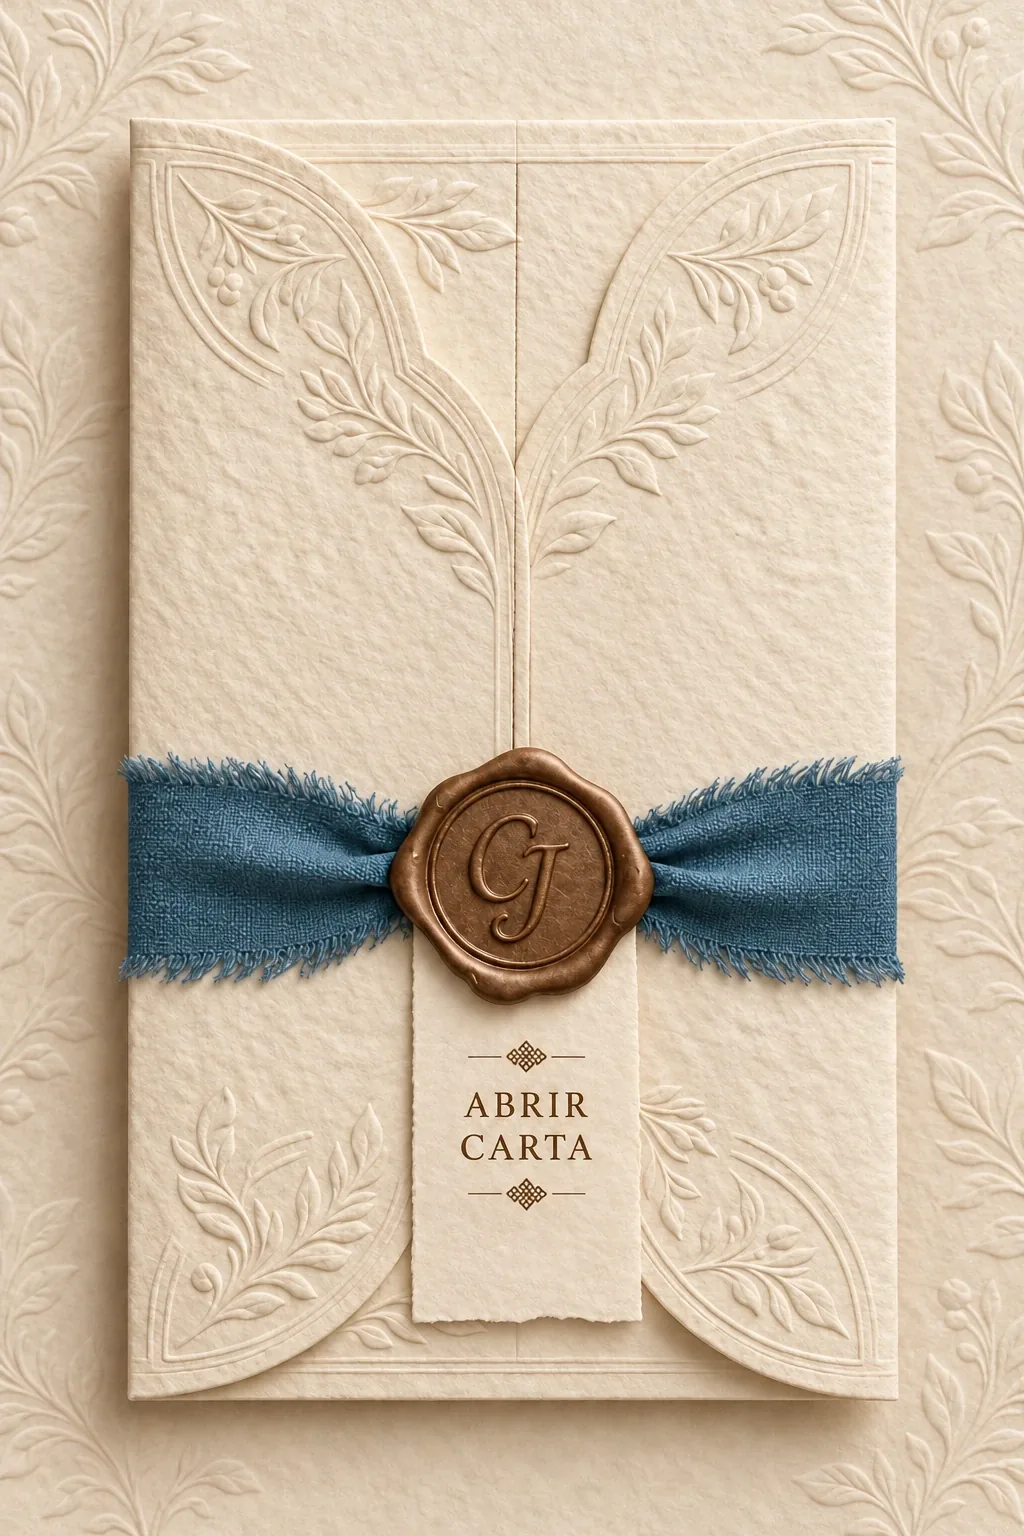
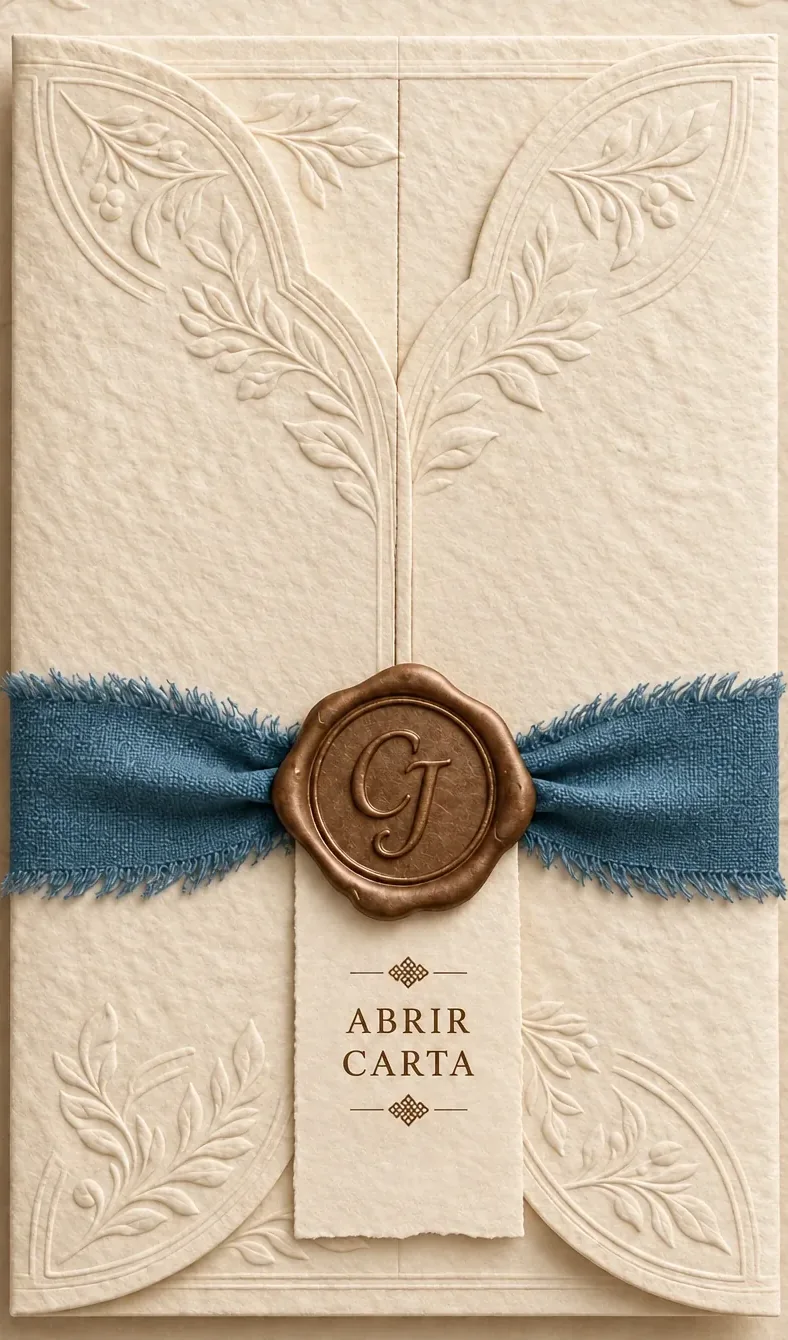
Entrada: solo la tarjeta sobre el fondo (cuadros recortados, bordes esfumados)
Claude-Session: https://claude.ai/code/session_01CPC8ckxxTpQ5o2jahJbfrt

diff --git a/index.html b/index.html
@@ -17,18 +17,19 @@
 
   /* Escena con la proporción de los cuadros (1024x1536) */
   .stage{position:fixed;inset:0;display:flex;flex-direction:column;align-items:center;justify-content:center;padding:2vh 0}
-  .scene{--h:min(100svh,150vw);position:relative;height:var(--h);aspect-ratio:2/3;border:0;padding:0;background:none;color:inherit;font:inherit;cursor:pointer;
-    -webkit-mask-image:radial-gradient(ellipse 72% 70% at 50% 50%,#000 72%,transparent 100%);mask-image:radial-gradient(ellipse 72% 70% at 50% 50%,#000 72%,transparent 100%);
+  .scene{--h:min(90svh,calc(92vw * 1340 / 788));position:relative;height:var(--h);aspect-ratio:788/1340;
+    -webkit-mask-image:linear-gradient(90deg,transparent,#000 2.5%,#000 97.5%,transparent),linear-gradient(transparent,#000 1.5%,#000 98.5%,transparent);-webkit-mask-composite:source-in;mask-image:linear-gradient(90deg,transparent,#000 2.5%,#000 97.5%,transparent),linear-gradient(transparent,#000 1.5%,#000 98.5%,transparent);mask-composite:intersect;border:0;padding:0;background:none;color:inherit;font:inherit;cursor:pointer;
+    
     animation:llega 1.4s .15s cubic-bezier(.22,.61,.36,1) both}
-  .scene:focus-visible{outline:none;filter:drop-shadow(0 0 6px #52798799)}
-  .frames{position:absolute;inset:0;transform-origin:50.6% 49.4%;transition:transform 1.5s cubic-bezier(.45,0,.55,1)}
+  .scene:focus-visible{outline:none;filter:none}
+  .frames{position:absolute;inset:0;transform-origin:50.8% 50.3%;transition:transform 1.5s cubic-bezier(.45,0,.55,1)}
   .frames>img{position:absolute;inset:0;width:100%;height:100%;object-fit:cover;opacity:0;transition:opacity .2s cubic-bezier(.45,0,.55,1)}
   .frames>img:first-child{opacity:1}
   .frames>img.on{opacity:1}
 
   /* La invitación dentro de la carta: ocupa el panel interior del último cuadro
      y se va descubriendo a medida que se abren las puertas. */
-  .letter{position:absolute;left:20.7%;right:19.3%;top:8.6%;bottom:9.8%;container-type:size;display:flex;flex-direction:column;align-items:center;justify-content:center;
+  .letter{position:absolute;left:11.9%;right:10.2%;top:3.4%;bottom:2.9%;container-type:size;display:flex;flex-direction:column;align-items:center;justify-content:center;
     text-align:center;opacity:0;clip-path:inset(0 50% 0 50%);transition:clip-path .2s cubic-bezier(.45,0,.55,1),opacity .2s}
   .letter[data-step="6"]{opacity:1;clip-path:inset(0 31% 0 34%)}
   .letter[data-step="7"]{opacity:1;clip-path:inset(0 18% 0 17%)}
